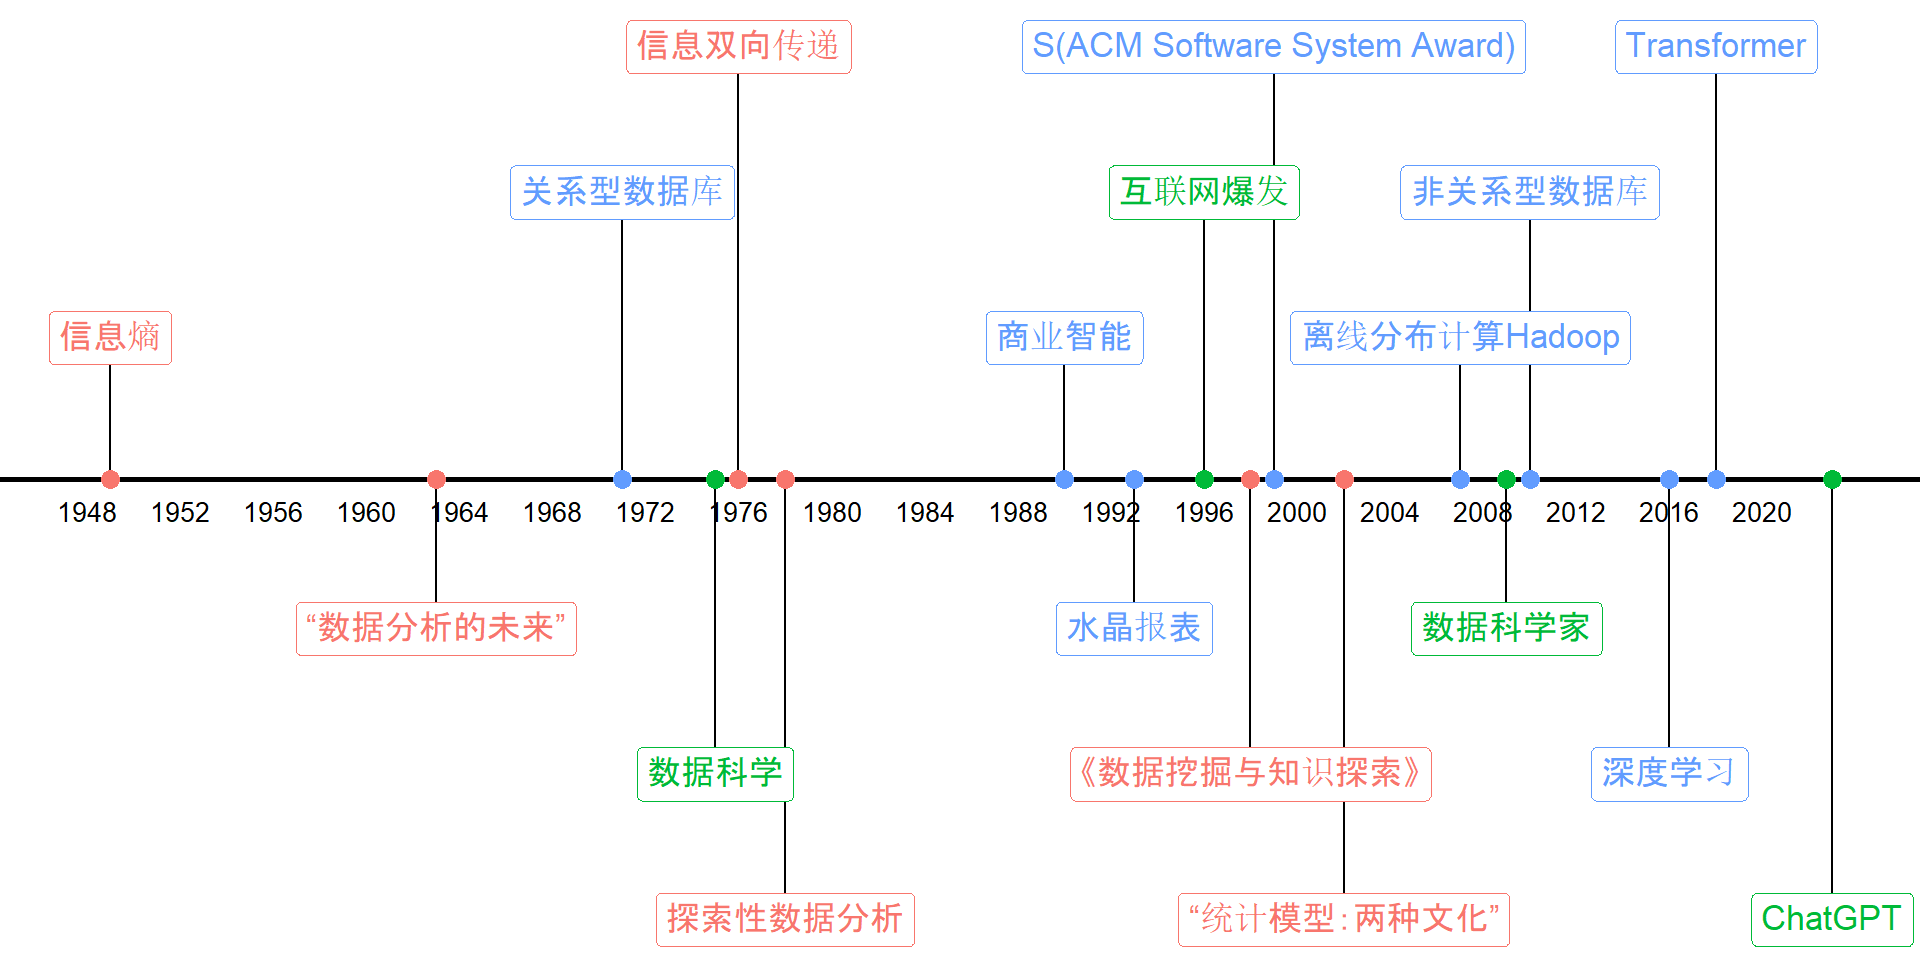
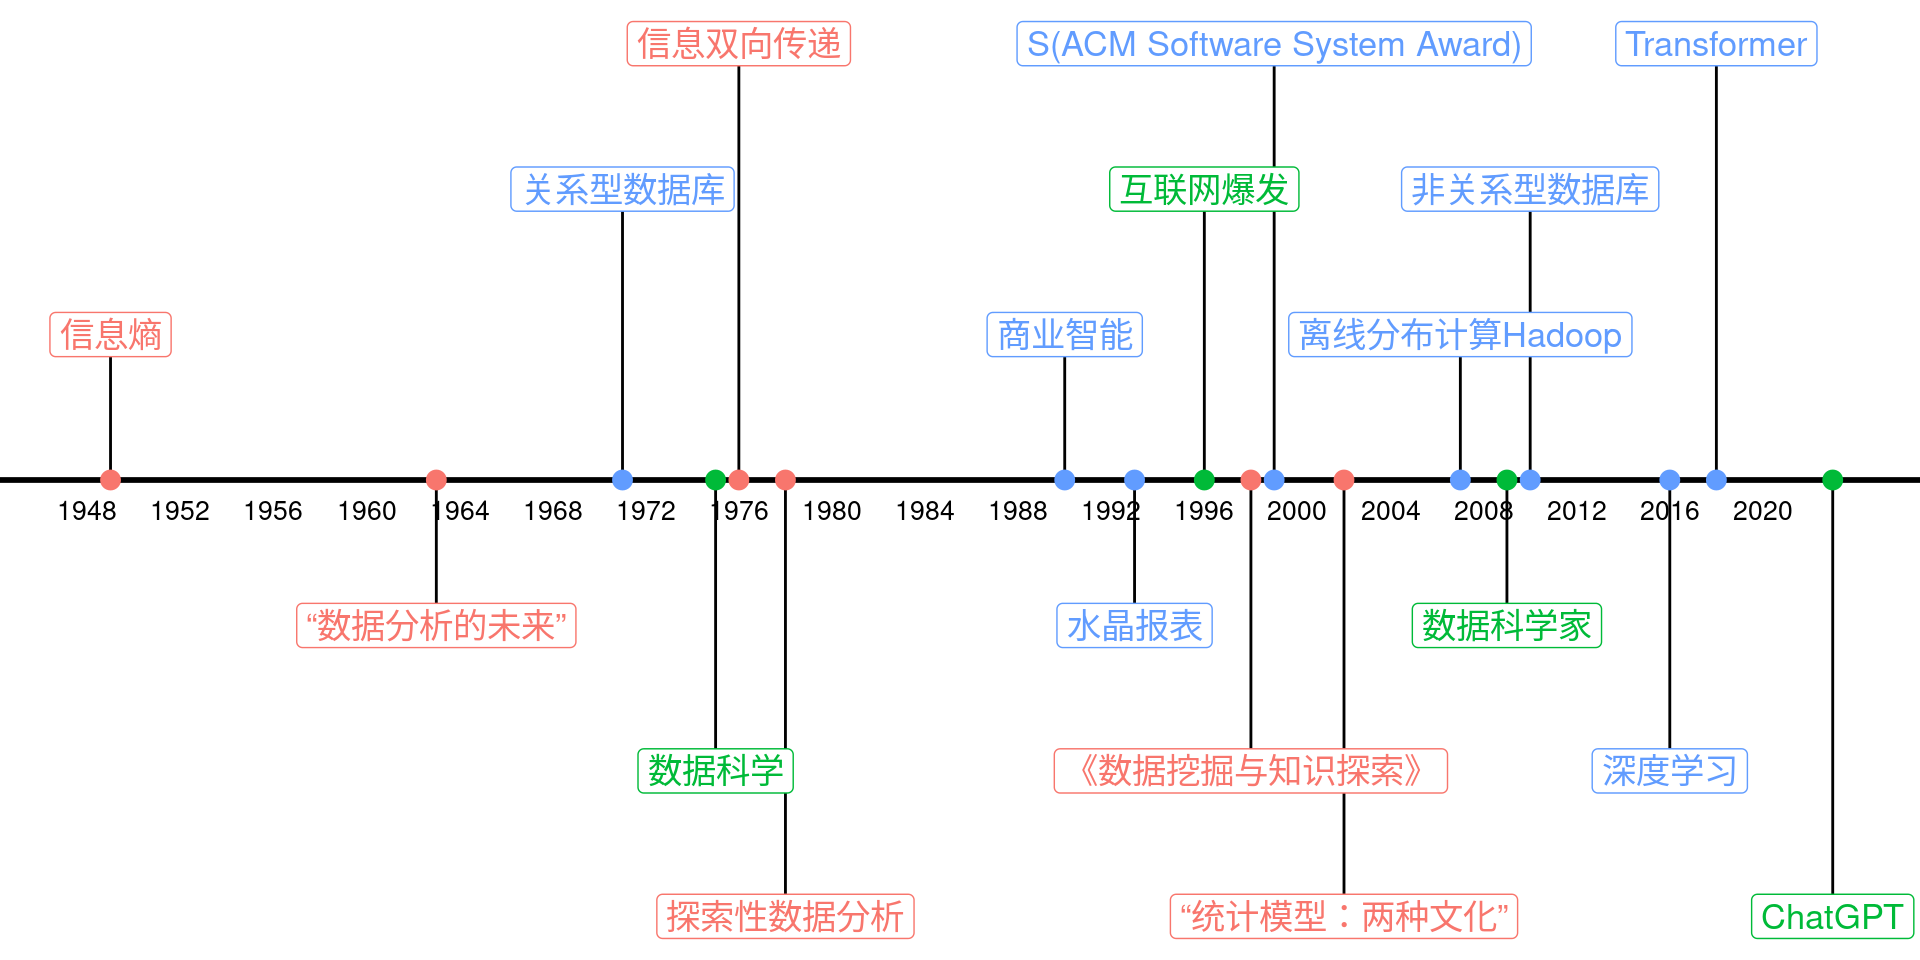
plot fix

diff --git a/slides/courses/governmentalBigData/11_generalApplication.html b/slides/courses/governmentalBigData/11_generalApplication.html
@@ -14,7 +14,7 @@
 <script src="11_generalApplication_files/libs/quarto-contrib/glightbox/glightbox.min.js"></script>
 <link href="11_generalApplication_files/libs/quarto-contrib/glightbox/glightbox.min.css" rel="stylesheet">
 <link href="11_generalApplication_files/libs/quarto-contrib/glightbox/lightbox.css" rel="stylesheet"><meta charset="utf-8">
-  <meta name="generator" content="quarto-1.3.340">
+  <meta name="generator" content="quarto-1.4.14">
 
   <meta name="author" content="胡悦">
   <meta name="dcterms.date" content="2023-06-29">
@@ -718,7 +718,7 @@
 </div>
 <div class="quarto-figure quarto-figure-center">
 <figure>
-<p><a href="images/idea_dataScience.jpg" class="lightbox" data-gallery="quarto-lightbox-gallery-13"><img data-src="images/idea_dataScience.jpg" height="600"></a></p>
+<p><a href="images/vis_measurement.png" class="lightbox" data-gallery="quarto-lightbox-gallery-13"><img data-src="images/vis_measurement.png" height="600"></a></p>
 </figure>
 </div>
 </div>
